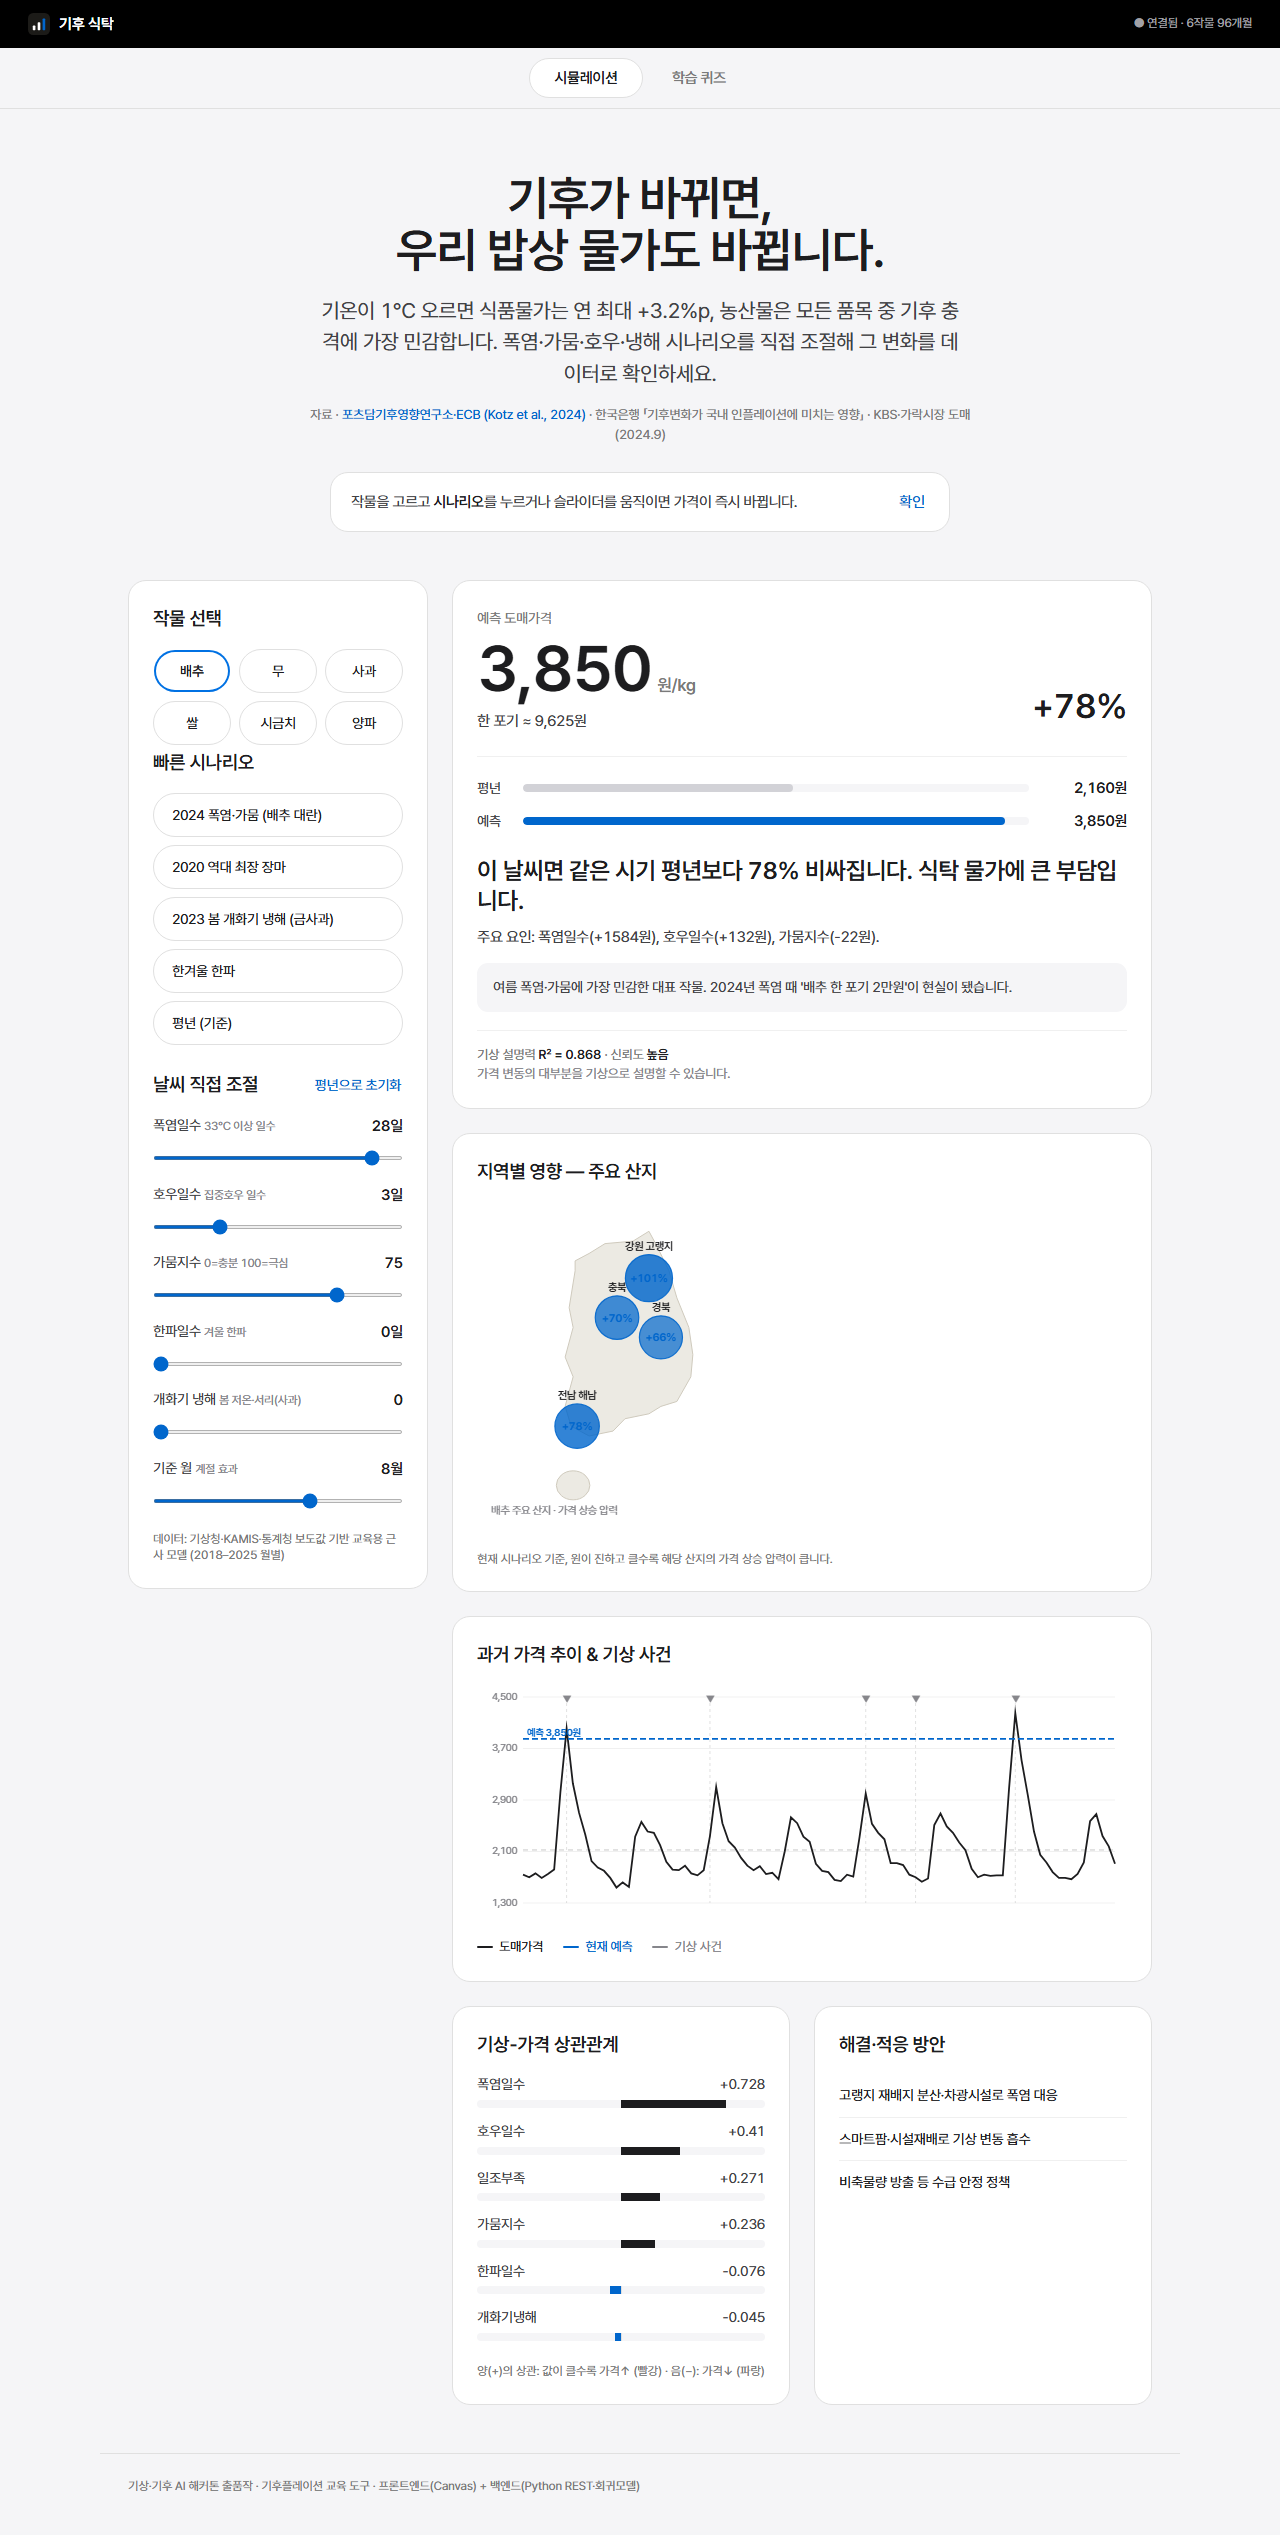
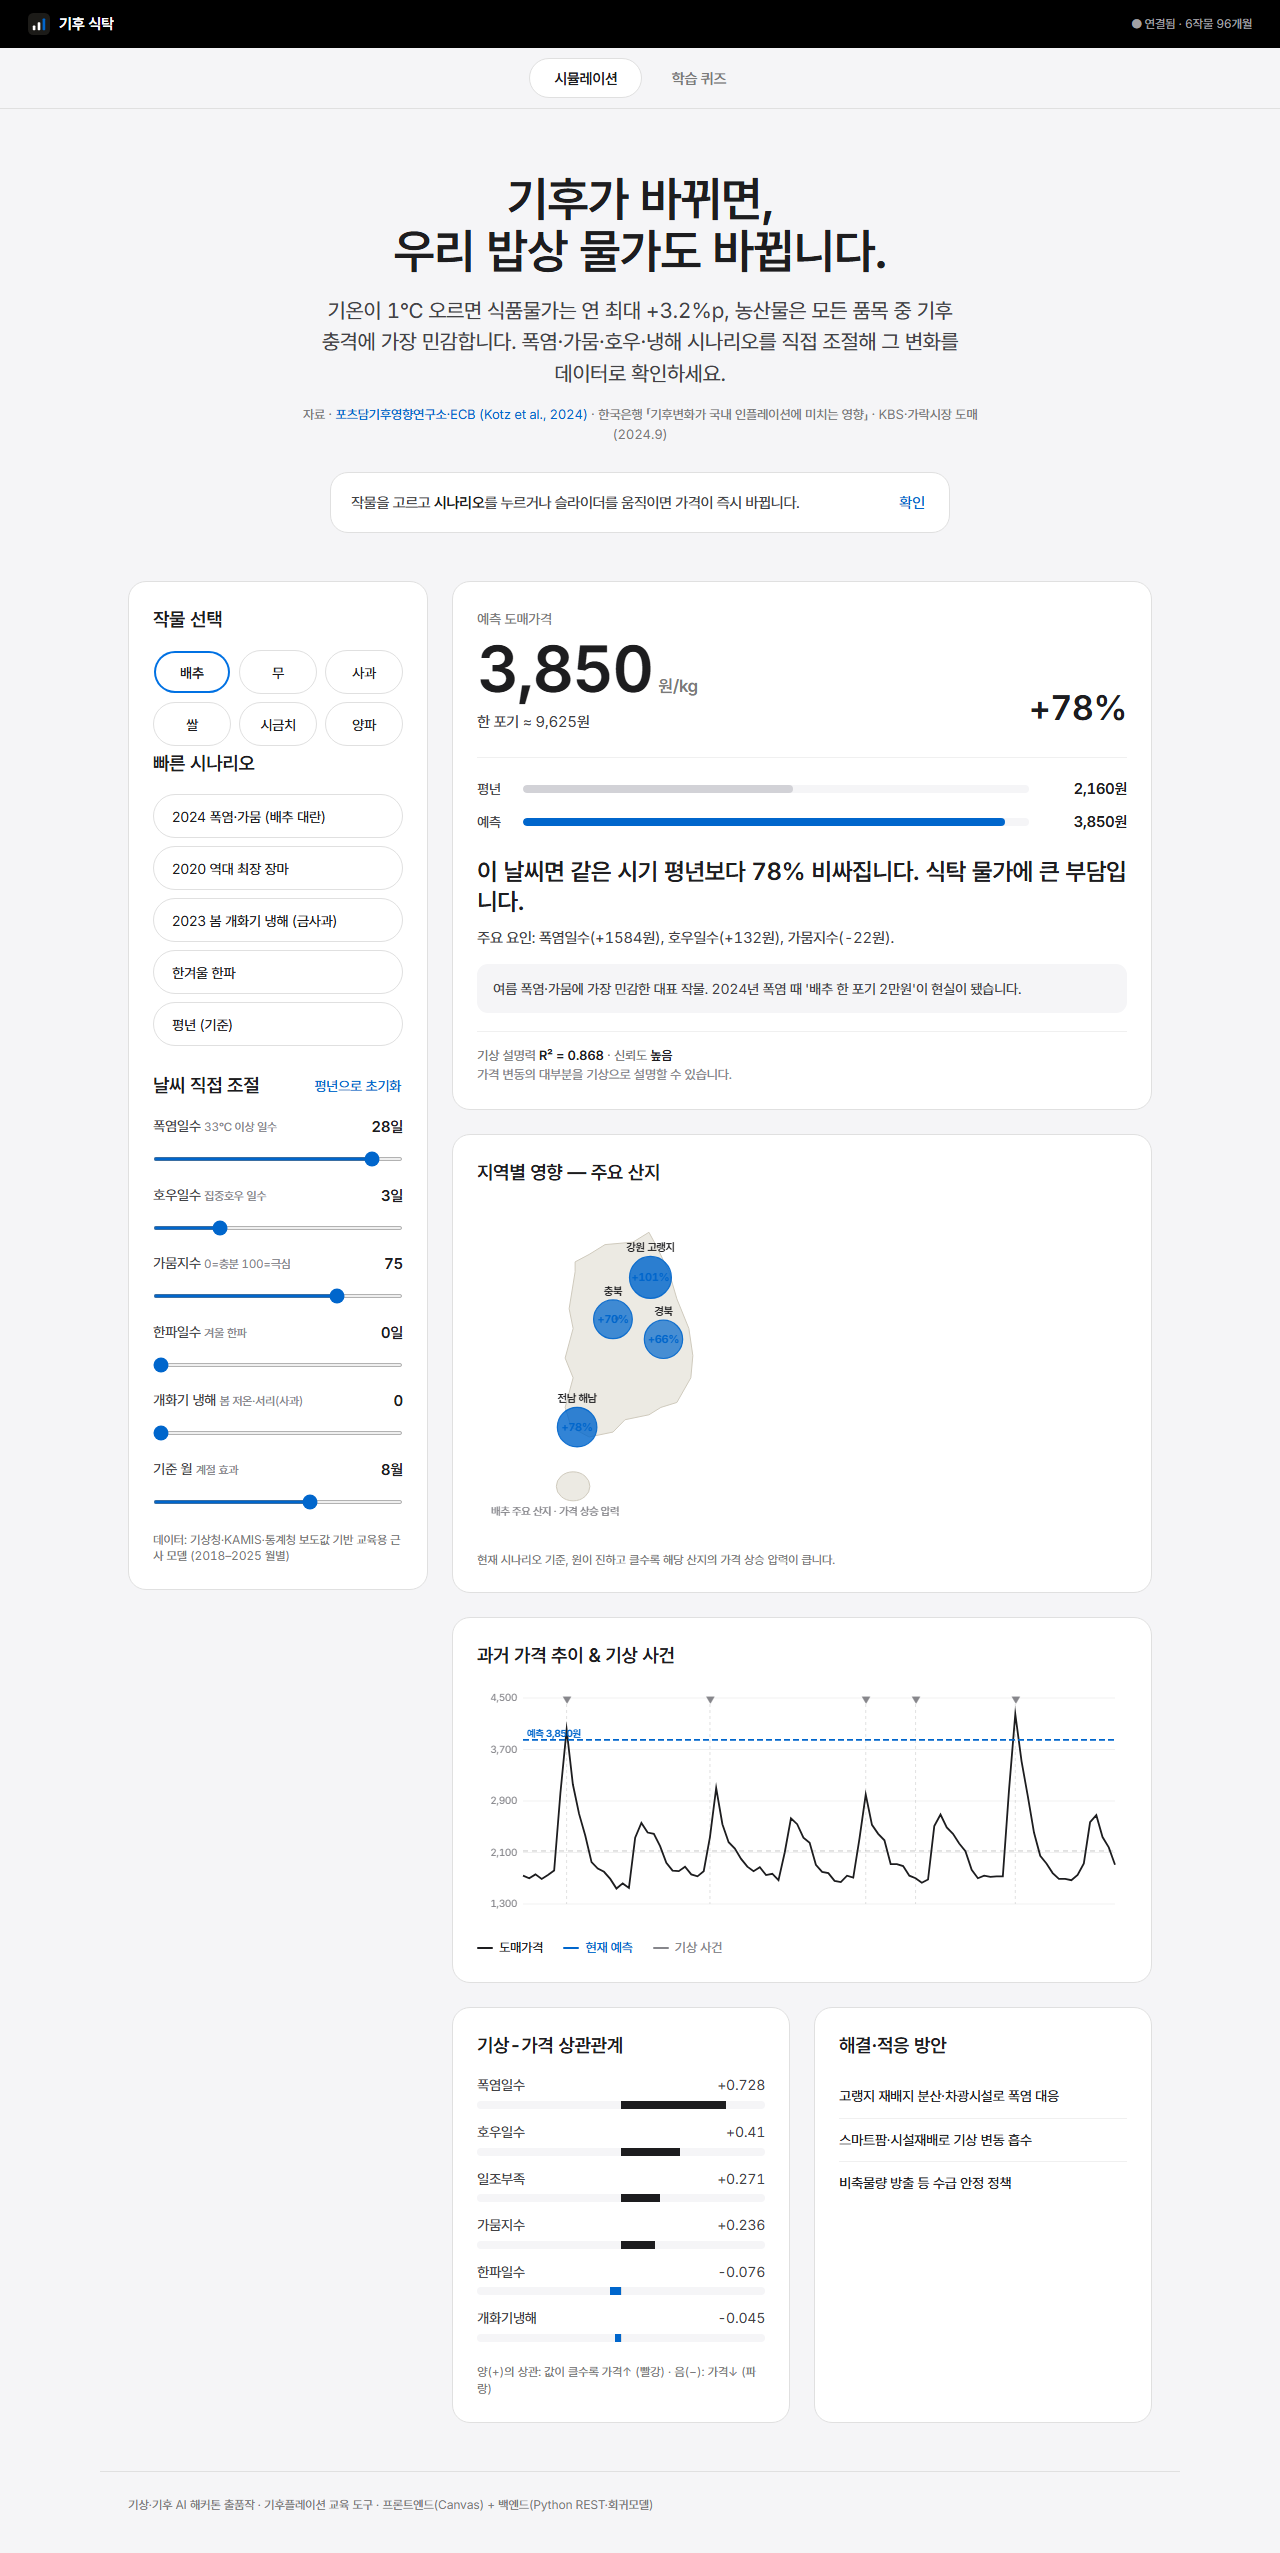
fix: 지도 산지 원 겹침 정리 + 폰트를 Inter(라틴)+Pretendard(한글)로 교체
- 산지 마커에 반발(repulsion)+원위치 스프링 레이아웃 적용 → 겹침 제거,
  이동 시 실제 위치로 가는 연결선 표시. 데스크톱·모바일 모두 깔끔.
- Figma 'best fonts' 1위 Inter를 라틴·숫자에 적용(SF Pro 대체 권장과도 일치),
  한글은 Pretendard 폴백. 캔버스 라벨 폰트도 Inter로 통일.
콘솔에러 0.

diff --git a/frontend/app.js b/frontend/app.js
@@ -226,7 +226,7 @@ function drawChart() {
   const Y = v => pad.t + (1 - (v - lo) / (hi - lo)) * (h - pad.t - pad.b);
 
   // y 그리드
-  ctx.font = "10px Pretendard"; ctx.textBaseline = "middle";
+  ctx.font = "10px Inter, Pretendard"; ctx.textBaseline = "middle";
   for (let k = 0; k <= 4; k++) {
     const v = lo + (hi - lo) * k / 4, y = Y(v);
     ctx.strokeStyle = "rgba(0,0,0,0.06)"; ctx.beginPath(); ctx.moveTo(pad.l, y); ctx.lineTo(w - pad.r, y); ctx.stroke();
@@ -249,7 +249,7 @@ function drawChart() {
     const x = X(idx);
     ctx.strokeStyle = "rgba(0,0,0,0.12)"; ctx.setLineDash([3, 3]);
     ctx.beginPath(); ctx.moveTo(x, pad.t); ctx.lineTo(x, h - pad.b); ctx.stroke(); ctx.setLineDash([]);
-    ctx.fillStyle = "#86868b"; ctx.font = "9px Pretendard";
+    ctx.fillStyle = "#86868b"; ctx.font = "9px Inter, Pretendard";
     ctx.save(); ctx.translate(x, pad.t + 2); ctx.fillText("▼", 0, 0); ctx.restore();
   }
   // 평년선
@@ -263,7 +263,7 @@ function drawChart() {
   if (lastPred != null) {
     ctx.strokeStyle = "#0066cc"; ctx.lineWidth = 1.6; ctx.setLineDash([6, 3]);
     ctx.beginPath(); ctx.moveTo(pad.l, Y(lastPred)); ctx.lineTo(w - pad.r, Y(lastPred)); ctx.stroke(); ctx.setLineDash([]);
-    ctx.fillStyle = "#0066cc"; ctx.textAlign = "left"; ctx.font = "700 10px Pretendard";
+    ctx.fillStyle = "#0066cc"; ctx.textAlign = "left"; ctx.font = "700 10px Inter, Pretendard";
     ctx.fillText("예측 " + lastPred.toLocaleString() + "원", pad.l + 4, Y(lastPred) - 6);
   }
 }
@@ -291,26 +291,46 @@ function drawMap(pct) {
   const [jx, jy] = P(SK_JEJU.lon, SK_JEJU.lat);
   ctx.beginPath(); ctx.ellipse(jx, jy, SK_JEJU.r * cosM * sc, SK_JEJU.r * sc * 0.7, 0, 0, 7);
   ctx.fillStyle = "#eceae3"; ctx.fill(); ctx.stroke();
-  // 산지 원
+  // 산지 점 계산
   const regions = CROP_REGIONS[state.item] || [];
-  ctx.textAlign = "center";
-  regions.forEach(r => {
+  const pts = regions.map(r => {
     const [x, y] = P(r.lon, r.lat);
-    const impact = Math.max(0, pct) * r.w;            // 가격 상승 압력
-    const alpha = Math.min(0.82, 0.1 + impact / 80 * 0.72);
-    const rad = 7 + r.w * 4.5 + Math.min(11, Math.max(0, pct) / 80 * 11);
-    ctx.beginPath(); ctx.arc(x, y, rad, 0, 7);
-    ctx.fillStyle = pct >= 0 ? `rgba(0,102,204,${alpha})` : `rgba(134,134,139,0.25)`;
-    ctx.fill();
-    ctx.lineWidth = 1.2; ctx.strokeStyle = pct >= 0 ? "rgba(0,102,204,0.9)" : "rgba(134,134,139,0.7)"; ctx.stroke();
-    // 라벨
-    ctx.fillStyle = "#1d1d1f"; ctx.font = "600 11px Pretendard";
-    ctx.fillText(r.n, x, y - rad - 5);
-    ctx.fillStyle = pct >= 0 ? "#0066cc" : "#86868b"; ctx.font = "700 11px Pretendard";
-    ctx.fillText((pct > 0 ? "+" : "") + Math.round(impact) + "%", x, y + 4);
+    const impact = Math.max(0, pct) * r.w;
+    const rad = 7 + r.w * 4 + Math.min(9, Math.max(0, pct) / 80 * 9);
+    return { r, x0: x, y0: y, x, y, rad, impact };
   });
+  // 겹침 분리(반발 + 원위치 스프링)
+  for (let it = 0; it < 90; it++) {
+    for (let i = 0; i < pts.length; i++) for (let j = i + 1; j < pts.length; j++) {
+      const a = pts[i], b = pts[j];
+      const dx = b.x - a.x, dy = b.y - a.y, d = Math.hypot(dx, dy) || 0.01, min = a.rad + b.rad + 16;
+      if (d < min) { const push = (min - d) / 2, ux = dx / d, uy = dy / d; a.x -= ux * push; a.y -= uy * push; b.x += ux * push; b.y += uy * push; }
+    }
+    for (const p of pts) {
+      p.x += (p.x0 - p.x) * 0.03; p.y += (p.y0 - p.y) * 0.03;
+      p.x = Math.max(p.rad + 20, Math.min(w - p.rad - 20, p.x));
+      p.y = Math.max(p.rad + 16, Math.min(h - p.rad - 24, p.y));
+    }
+  }
+  // 그리기 (연결선 → 원 → 라벨)
+  ctx.textAlign = "center";
+  for (const p of pts) {
+    if (Math.hypot(p.x - p.x0, p.y - p.y0) > 3) {
+      ctx.strokeStyle = "rgba(0,0,0,0.18)"; ctx.lineWidth = 1;
+      ctx.beginPath(); ctx.moveTo(p.x0, p.y0); ctx.lineTo(p.x, p.y); ctx.stroke();
+      ctx.fillStyle = "rgba(0,0,0,0.4)"; ctx.beginPath(); ctx.arc(p.x0, p.y0, 2, 0, 7); ctx.fill();
+    }
+  }
+  for (const p of pts) {
+    const alpha = Math.min(0.82, 0.1 + p.impact / 80 * 0.72);
+    ctx.beginPath(); ctx.arc(p.x, p.y, p.rad, 0, 7);
+    ctx.fillStyle = pct >= 0 ? `rgba(0,102,204,${alpha})` : "rgba(134,134,139,0.22)"; ctx.fill();
+    ctx.lineWidth = 1.2; ctx.strokeStyle = pct >= 0 ? "rgba(0,102,204,0.9)" : "rgba(134,134,139,0.7)"; ctx.stroke();
+    ctx.fillStyle = "#1d1d1f"; ctx.font = "600 11px Inter, Pretendard"; ctx.fillText(p.r.n, p.x, p.y - p.rad - 5);
+    ctx.fillStyle = pct >= 0 ? "#0066cc" : "#86868b"; ctx.font = "700 11px Inter, Pretendard"; ctx.fillText((pct > 0 ? "+" : "") + Math.round(p.impact) + "%", p.x, p.y + 4);
+  }
   // 범례
-  ctx.textAlign = "left"; ctx.fillStyle = "#86868b"; ctx.font = "11px Pretendard";
+  ctx.textAlign = "left"; ctx.fillStyle = "#86868b"; ctx.font = "11px Inter, Pretendard";
   ctx.fillText(state.item + " 주요 산지 · 가격 상승 압력", pad + 2, h - 8);
 }
 

diff --git a/frontend/style.css b/frontend/style.css
@@ -14,7 +14,9 @@
   --hairline:#e0e0e0;
   --divider:#f0f0f0;
   --chip:#d2d2d7;
-  --sans:-apple-system,BlinkMacSystemFont,"Pretendard Variable",Pretendard,"SF Pro Text","SF Pro Display",system-ui,"Apple SD Gothic Neo",sans-serif;
+  /* Inter(라틴·숫자, Figma 추천 1위) + Pretendard(한글). 한글은 Inter에 글리프가
+     없어 자동으로 Pretendard로 폴백됨. SF Pro 대체로도 권장되는 조합. */
+  --sans:"Inter","Pretendard Variable",Pretendard,-apple-system,BlinkMacSystemFont,system-ui,"Apple SD Gothic Neo",sans-serif;
 }
 *{box-sizing:border-box;margin:0;padding:0}
 html{-webkit-text-size-adjust:100%}

diff --git a/frontend/index.html b/frontend/index.html
@@ -8,6 +8,7 @@
 <link rel="preconnect" href="https://fonts.googleapis.com" />
 <link rel="preconnect" href="https://fonts.gstatic.com" crossorigin />
 <link rel="stylesheet" href="https://cdn.jsdelivr.net/gh/orioncactus/pretendard@v1.3.9/dist/web/static/pretendard.min.css" />
+<link href="https://fonts.googleapis.com/css2?family=Inter:wght@400;500;600;700&display=swap" rel="stylesheet" />
 <link rel="stylesheet" href="/style.css" />
 </head>
 <body>
